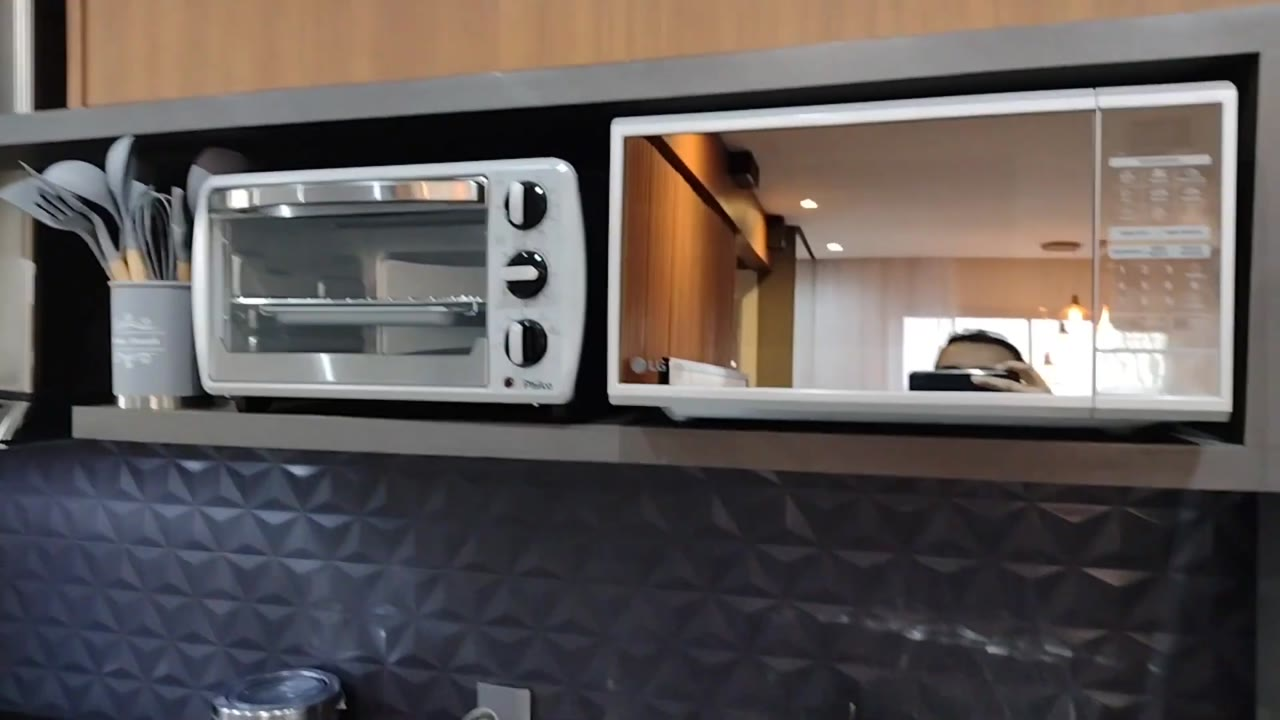
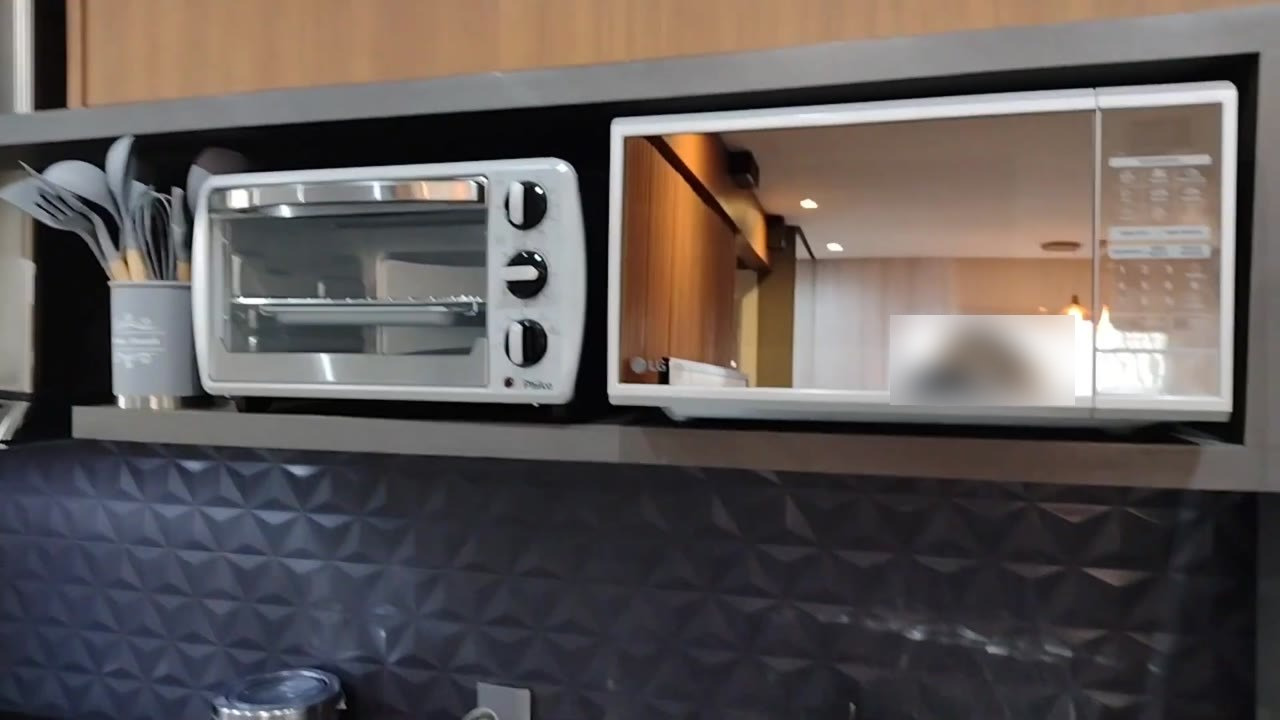
Catalogo mobiliado: borra reflexo de rosto e suaviza afirmacoes nao confirmadas

Changed region(s): [[0.6875, 0.4278, 0.8438, 0.5806]]

diff --git a/07_Imovel/Mobiliado/README.md b/07_Imovel/Mobiliado/README.md
@@ -2,7 +2,7 @@
 
 Continua o catálogo do apartamento vazio ([Complemento R02](../Complemento/Complemento_da_visita_R02.md), [índice dos quadros](../indice_frames.json)). Fonte: `Video_Apartamento_Espelhado_Mobiliado.mp4` (29 min 23 s, só no PC, fora do Git e do site). Segundo Elias, é a mesma planta, mobiliada e reformada pelo morador. A identificação de cada cômodo com a P01 continua hipótese.
 
-**Limites:** é a unidade de outra pessoa, com reformas dela (forro, painéis, trocas de louça). Os quadros mostram escala e solução, não cotas. O áudio foi transcrito por máquina, com erros, sem escuta palavra a palavra: [transcrição com horários](Transcricao_automatica_com_horarios.txt), cortada em 27:00 (o restante é despedida e comentário sobre fornecedores, sem uso no projeto). 51 quadros selecionados em `Fotos/` e em [indice_mobiliado.json](indice_mobiliado.json). Não foram guardados os quadros com rosto, retratos de família ou marcas de terceiros.
+**Limites:** é a unidade de outra pessoa, com reformas dela (forro, painéis, trocas de louça). Os quadros mostram escala e solução, não cotas. O áudio foi transcrito por máquina, com erros, sem escuta palavra a palavra: [transcrição com horários](Transcricao_automatica_com_horarios.txt), cortada em 27:00 (o restante é despedida e comentário sobre fornecedores, sem uso no projeto). 51 quadros selecionados em `Fotos/` e em [indice_mobiliado.json](indice_mobiliado.json). Não foram guardados quadros com rosto, retratos de família ou marcas de terceiros; o reflexo no micro-ondas de M-COZ-06 foi borrado.
 
 ## O que o vazio deixou em aberto e o que este vídeo responde
 
@@ -10,7 +10,7 @@ Continua o catálogo do apartamento vazio ([Complemento R02](../Complemento/Comp
 |---|---|---|
 | Sob a pia e o tanque (percurso oculto, volume) | Porta de abrir sob a bancada esconde máquina, aquecedor e cesto de roupa ([M-LAV-01](Fotos/lavanderia/M-LAV-01_25m48s.jpg), [M-COZ-08](Fotos/cozinha/M-COZ-08_03m48s.jpg)) | Interior dos tubos: não é mostrado |
 | Ventilação e janela do serviço | Veneziana fixa de alumínio ao lado de janela de correr ([M-COZ-09](Fotos/cozinha/M-COZ-09_04m00s.jpg), [M-COZ-10](Fotos/cozinha/M-COZ-10_04m36s.jpg)); grelha de parede junto à janela ([M-COZ-07](Fotos/cozinha/M-COZ-07_03m24s.jpg)) | Área livre e saída externa |
-| Forro e teto | Sala e corredor têm forro rebaixado com spots ([M-SAL-04](Fotos/sala/M-SAL-04_08m24s.jpg), [M-CIR-02](Fotos/circulacao/M-CIR-02_17m36s.jpg)); o morador diz que o aéreo do quarto para abaixo do teto porque “a altura podia variar” (24:26) | Pé-direito: nenhuma medida |
+| Forro e teto | Sala e corredor aparentam ter forro rebaixado com spots ([M-SAL-04](Fotos/sala/M-SAL-04_08m24s.jpg), [M-CIR-02](Fotos/circulacao/M-CIR-02_17m36s.jpg)); o morador diz que o aéreo do quarto para abaixo do teto porque “a altura podia variar” (24:26) | Pé-direito: nenhuma medida |
 | Quarto B escuro e placas desfocadas | Quarto menor bem iluminado, com janela, persiana rolô e ponto de teto ([M-QB-01…03](Fotos/quarto_beliche/)); tomada e persiana vistas, placas pequenas não | Placas de comunicação |
 | Atrás da porta do quarto A | Entrada do quarto do casal com a porta aberta ([M-QC-01](Fotos/quarto_casal/M-QC-01_21m48s.jpg)) | Parede atrás da porta |
 | Janela e box do banheiro | Janela projetante **dentro** do box, com ducha de teto e registros ([M-BAN-06…09](Fotos/banheiro/)) | Medidas da janela |
@@ -28,13 +28,13 @@ Só vale o que foi dito, com horário. Nada é cota do projeto.
 | Rack da sala raso: só a profundidade dos aparelhos | 09:25 | Idem |
 | TV de 55" ocupa toda a parede do painel; na parede original “não cabe” | 08:04 | Posição da TV na sala |
 | Gaveta de talheres, de vassouras e de temperos sob a bancada, sem armário alto | 01:24 a 02:06 | Guarda de limpeza |
-| Gaveta de toalhas do banheiro só abre com a porta fechada; o suporte de vidro do kit não cabe no espaço estreito | 14:55 a 15:23 | Conflito porta × gaveta, como na manutenção do gabinete |
+| Gaveta de toalhas do banheiro só abre com a porta fechada; uma peça do kit (áudio pouco claro) não cabe no espaço estreito | 14:55 a 15:23 | Conflito porta × gaveta, como na manutenção do gabinete |
 | Na sala o ponto de TV e telefone fica só na parede de origem; o morador puxou o cabo HDMI pela parede e pelo teto | 11:31 a 11:58 | Pontos de TV/dados da sala |
 | Janela da sala alta: sentado se vê a rua, no sofá só o céu | 12:12 a 12:36 | Posição do sofá e da mesa em relação à janela |
 
 ## Comparação com decisões do projeto
 
-- **Lavanderia:** a máquina, o forno e o cooktop ficam em fila sob a mesma bancada, como no estudo de [lavanderia](../../03_Ambientes/Lavanderia/README.md). Aquecedor e varal ficam atrás de portas na própria frente. Não aparece painel isolante entre máquina e forno; o manual do projeto pede um, e o vídeo não o contradiz nem o confirma.
+- **Lavanderia:** a máquina, o forno e o cooktop ficam em fila sob a mesma bancada, como no estudo de [lavanderia](../../03_Ambientes/Lavanderia/README.md). Aquecedor e varal ficam atrás de portas na própria frente. Não é possível ver se há painel isolante entre máquina e forno; o manual do projeto pede um, e o vídeo não o confirma nem o contradiz.
 - **Escritório (quarto menor, 2,30 × 2,95 m no projeto):** bancada dupla, beliche e janela de correr cabem no mesmo tipo de quarto, sem guarda-roupa. Só como referência de escala.
 - **Banheiro:** ducha de teto e janela no box, cuba esculpida e gabinete de duas gavetas cuja gaveta só abre com a porta fechada; compare com o BC43.
 - **Sala:** o morador pôs TV e sofá em paredes diferentes do layout original da construtora, por causa da cortina e da janela alta. Conferir com a [sala](../../03_Ambientes/Sala_e_jantar/README.md).
@@ -52,7 +52,7 @@ Só vale o que foi dito, com horário. Nada é cota do projeto.
 | [M-COZ-05](Fotos/cozinha/M-COZ-05_02m36s.jpg) | 02:36 | Parede da cuba: revestimento 3D, torneira de bancada, escorredor e tomada dupla alta | Altura das tomadas em relação à bancada |
 | [M-COZ-06](Fotos/cozinha/M-COZ-06_05m12s.jpg) | 05:12 | Nicho aéreo aberto para micro-ondas e forno elétrico; relato de 32 cm de altura × 34 cm de profundidade (05:23) | Única medida de nicho dada pelo morador |
 | [M-COZ-07](Fotos/cozinha/M-COZ-07_03m24s.jpg) | 03:24 | Aéreo de madeira com caixa vazada embaixo, sobre a máquina; janela e grelha de ventilação na parede | Grelha de ventilação junto à janela: posição da saída |
-| [M-COZ-08](Fotos/cozinha/M-COZ-08_03m48s.jpg) | 03:48 | Portinha sob a bancada junto à cuba (produtos de limpeza e cesto de roupa, relato 03:48) | Aproveitamento do vão sob a pedra |
+| [M-COZ-08](Fotos/cozinha/M-COZ-08_03m48s.jpg) | 03:48 | Portinha sob a bancada junto à cuba, com produtos dentro (relato 03:48: cesto de roupa escondido) | Aproveitamento do vão sob a pedra |
 | [M-COZ-09](Fotos/cozinha/M-COZ-09_04m00s.jpg) | 04:00 | Janela da área de serviço com veneziana fixa de alumínio; armário alto de madeira ao lado | Tipo de janela do serviço |
 | [M-COZ-10](Fotos/cozinha/M-COZ-10_04m36s.jpg) | 04:36 | Janela do serviço (parte com veneziana e parte de correr) e ganchos na parede | Altura do peitoril em relação à bancada |
 | [M-COZ-11](Fotos/cozinha/M-COZ-11_04m48s.jpg) | 04:48 | Vista do fundo para a cozinha: máquina, forno, cooktop, nicho e grelha na parede da janela | Visão geral do corredor |
